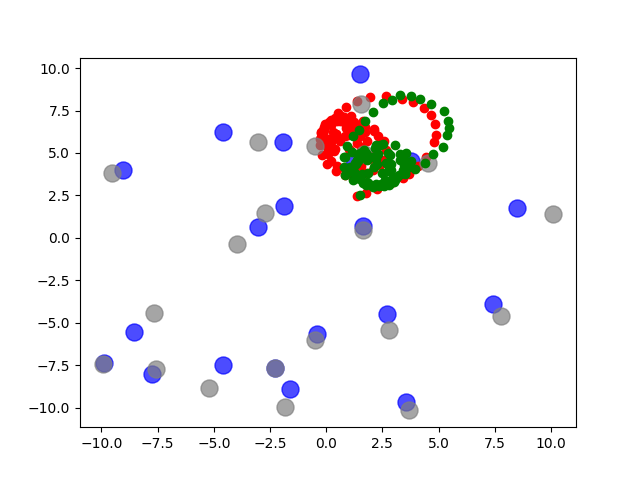
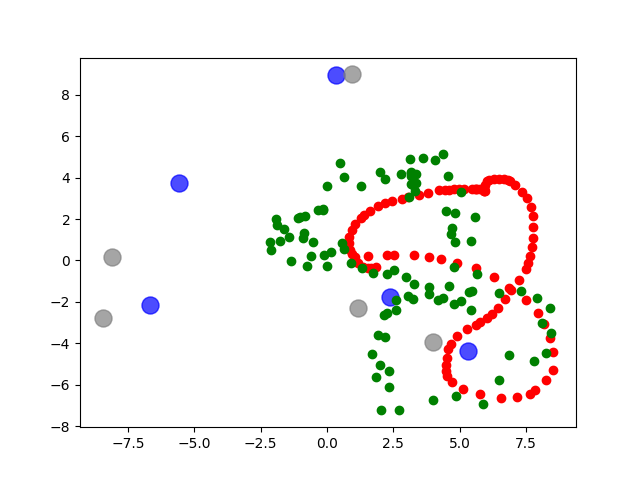
several landmarks per step & fixes

diff --git a/src/model.py b/src/model.py
@@ -24,7 +24,7 @@ class Model(object):
                 observation_model : callable,
                 prior_mean : callable = get_prediction,
                 tol : float = 1e-3,
-                dumpening_factor : float = 1e-2,
+                dampening_factor : float = 1e-3,
                 max_n_iter : int = 1e3,
                 verbose : bool = True,
                 **kwargs):
@@ -39,7 +39,7 @@ class Model(object):
         self.b_means = np.concatenate([b_means.reshape(-1), land_means.reshape(-1)], 0)
         #self.land_means = land_means
         self.max_n_iter = max_n_iter
-        self.dampening_factor = dumpening_factor
+        self.dampening_factor = dampening_factor
         self.tol = tol
         self.verbose = verbose
 
@@ -88,29 +88,43 @@ class Model(object):
             self.prior_means.append(mean)
             state_cut += mean
 
-            measurement = self.measurements[i][0]  # assume only one landmark per step
-            landmark_id = int(measurement[-1])  # assume data assotiation is known
-            observation = measurement[:-1]
-            landmark_start_idx = self.state_feature_dim+landmark_id*self.landmark_dim
-            landmark_cut = y_vector[landmark_start_idx:landmark_start_idx+self.landmark_dim]
-            h = self.observation_model.get_measurement(state_cut, landmark_cut)
-            dh = self.observation_model.get_jacobian(state_cut, landmark_cut, h)
-            obs_dim = dh.shape[0]
+            mesurement_cov = block_diag(*[self.inv_measurement_covs[i]]*len(self.measurements[i]))
+            diffs = []
+            dhs = [] 
+            for measurement in self.measurements[i]:
+            #measurement = self.measurements[i][0]  # assume only one landmark per step
+                landmark_id = int(measurement[-1])  # assume data assotiation is known
+                observation = measurement[:-1]
+                landmark_start_idx = self.state_feature_dim+landmark_id*self.landmark_dim
+                landmark_cut = y_vector[landmark_start_idx:landmark_start_idx+self.landmark_dim]
+                h = self.observation_model.get_measurement(state_cut, landmark_cut)
+                dh = self.observation_model.get_jacobian(state_cut, landmark_cut, h)
+                obs_dim = dh.shape[0]
 
-            state_part = dh[:, :self.state_dim].reshape(obs_dim, self.state_dim, 1).repeat(self.n_features, 2).reshape(obs_dim, -1)
-            
-            lands_part = np.zeros((obs_dim, self.landmark_dim*self.M))
-            lands_part[:, self.landmark_dim*landmark_id : self.landmark_dim*landmark_id + self.landmark_dim] = dh[:, self.state_dim:]
-            
-            dh = np.concatenate([state_part, lands_part], 1)
+                state_part = dh[:, :self.state_dim].reshape(obs_dim, self.state_dim, 1).repeat(self.n_features, 2).reshape(obs_dim, -1)
+                
+                lands_part = np.zeros((obs_dim, self.landmark_dim*self.M))
+                lands_part[:, self.landmark_dim*landmark_id : self.landmark_dim*landmark_id + self.landmark_dim] = dh[:, self.state_dim:]
+                
+                dh = np.concatenate([state_part, lands_part], 1)
 
-            A += phi_matrix.T @ dh.T @ self.inv_measurement_covs[i] @ dh @ phi_matrix
+                diff = observation - h
+                if hasattr(self.observation_model, 'bearing_noise_std'):
+                    diff[-1] = wrap_angle(diff[-1])
+
+                diffs.append(diff)
+                dhs.append(dh)
+
+            diffs = np.concatenate(diffs, 0)
+            dhs = np.concatenate(dhs, 0)
+
+            A += phi_matrix.T @ dhs.T @ mesurement_cov @ dhs @ phi_matrix
             
-            diff = observation - h
-            if hasattr(self.observation_model, 'bearing_noise_std'):
-                diff[-1] = wrap_angle(diff[-1])
+            g += phi_matrix.T @ dhs.T @ mesurement_cov @ diffs
+
+            # A += phi_matrix.T @ dh.T @ self.inv_measurement_covs[i] @ dh @ phi_matrix
             
-            g += phi_matrix.T @ dh.T @ self.inv_measurement_covs[i] @ diff
+            # g += phi_matrix.T @ dh.T @ self.inv_measurement_covs[i] @ diff
 
         A += self.inv_P_matrix
         diff = self.b - self.b_means
@@ -195,6 +209,7 @@ def train(
         land_means = landscape.landmarks
     elif landmark_mean == 'zero':
         land_means = np.zeros((num_landmarks, landmark_dim))
+        #land_means = np.random.uniform(0, 1, (num_landmarks, landmark_dim))*np.array(landscape.field_borders)[None, :]
     initial_values[n_features*state_dim:] = land_means.reshape(-1)
 
     observations = observation_model.filter_odom_observations(odometry.observations)

diff --git a/src/data_utils.py b/src/data_utils.py
@@ -25,7 +25,7 @@ class Odometry(object):
                 max_time=100, 
                 beta : np.ndarray = np.array([10., 10.]),
                 alphas : np.ndarray = np.array([0.05, 0.001, 0.05, 0.01]),
-                max_landmarks_per_step : int = 2):
+                max_landmarks_per_step : int = 30):
         self.landscape = landscape
         self.states = []
         self.observations = []
@@ -52,34 +52,38 @@ class Odometry(object):
         drot2 = 0
         for i in range(n_steps):
             noisy_observations = []
+            motion = np.zeros(3)
+            i = 1
             while len(noisy_observations) == 0:
-                # new_drot1 = np.random.normal(drot1, 0.05)
-                # new_dtr = np.random.normal(dtr, 0.05)
-                # new_drot2 = np.random.normal(drot2, 0.05)
+                new_drot1 = np.random.normal(drot1, 0.05*i)
+                new_dtr = np.random.normal(dtr, 0.05*i)
+                new_drot2 = np.random.normal(drot2, 0.05*i)
 
-                # motion = np.array([new_drot1, new_dtr, new_drot2])
+                motion = np.array([new_drot1, new_dtr, new_drot2])
                 
-                # new_state = sample_from_odometry(state, motion, self.alphas)
+                new_state = sample_from_odometry(state, motion, self.alphas)
 
-                drot1 = np.random.normal(drot1, 0.03)
-                dtr = np.random.normal(dtr, 0.03)
-                drot2 = np.random.normal(drot2, 0.03)
+                # drot1 = np.random.normal(drot1, 0.03)
+                # dtr = np.random.normal(dtr, 0.03)
+                # drot2 = np.random.normal(drot2, 0.03)
 
-                motion = np.array([drot1, dtr, drot2])
+                # motion += np.array([drot1, dtr, drot2])
                 
-                state = sample_from_odometry(state, motion, self.alphas)
+                # state = sample_from_odometry(state, motion, self.alphas)
                 
-                noise_free_observations = sense_landmarks(state, self.landscape, self.max_landmarks_per_step)
+                noise_free_observations = sense_landmarks(new_state, self.landscape, self.max_landmarks_per_step)
                 observation_noise = np.random.multivariate_normal(np.zeros(self.observation_dim), self.Q, size=len(noise_free_observations))
                 assert observation_noise.shape == noise_free_observations.shape
                 noisy_observations = np.empty(observation_noise.shape)
                 #noisy_observations[0] = noise_free_observations[0] + observation_noise
                 noisy_observations = noise_free_observations + observation_noise
-            # state = new_state
-            # drot1 = new_drot1
-            # dtr = new_dtr
-            # drot2 = new_drot2
+            state = new_state
+            drot1 = new_drot1
+            dtr = new_dtr
+            drot2 = new_drot2
             self.states.append(state)
+            motion[0] = wrap_angle(motion[0])
+            motion[2] = wrap_angle(motion[2])
             self.motions.append(motion)
             self.observations.append(noisy_observations)
 

diff --git a/src/main.py b/src/main.py
@@ -33,7 +33,7 @@ def parse_arguments():
     parser.add_argument('--lengthscale', type=float, default=3.)
     parser.add_argument('--b_sigma', type=float, default=0.1)
     parser.add_argument('--land_sigma', type=float, default=3)
-    parser.add_argument('--dampening_factor', type=float, default=0.05)
+    parser.add_argument('--dampening_factor', type=float, default=1e-4)
     parser.add_argument('--n_iter', type=int, default=100)
     parser.add_argument('--path_to_trajectory', type=str, default=None)
     parser.add_argument('--path_to_dump', type=str)
